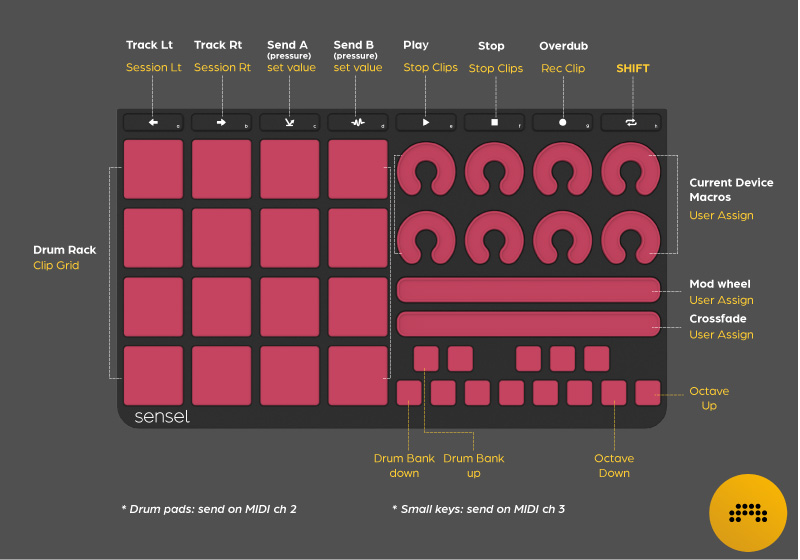
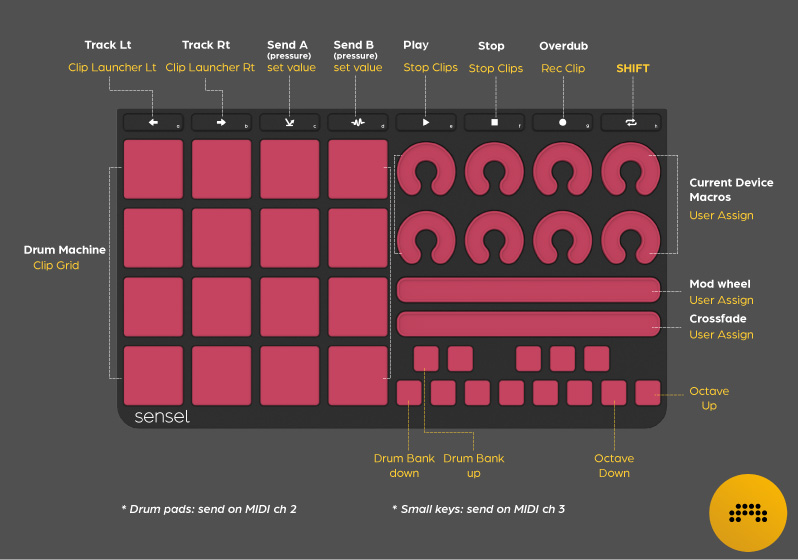
Deployed 4469b6a with MkDocs version: 0.16.1

Changed region(s): [[0.0938, 0.0607, 0.3125, 0.1518], [0.0312, 0.425, 0.125, 0.4554]]

diff --git a/morph_software/index.html b/morph_software/index.html
@@ -852,10 +852,12 @@
 </ul>
 <p><strong>Remote Scripts for Live:</strong></p>
 <ul>
-<li>Windows: C:\Program Files\Ableton\Live 10.x.x\Resources\MIDI Remote Scripts</li>
+<li>Windows: C:\ProgramData\Ableton\Live 10\Resources\MIDI Remote Scripts</li>
 <li>Mac: Applications/Live 10/Contents/App-Resources/MIDI Remote Scripts</li>
 </ul>
-<p>(Note: if you want to verify the install for Mac, you can right click on the Live 10 application icon and "Show Package Contents" and navigate to the "MIDI Remote Scripts" folder.)</p>
+<p>Notes: 
+<em> if you want to verify the install for Mac, you can right click on the Live 10 application icon and "Show Package Contents" and navigate to the "MIDI Remote Scripts" folder.)
+</em> On Windows, make sure Ableton is installed in C:\ProgramData\Ableton. If you have it installed in a non-default location such as C:\Program Files\Ableton, the installer will fail.</p>
 <p>Open the Preferences window in Ableton Live and select the MIDI tab. Select the Sensel Morph as your Control Script. Select the Morph as the input and output device for the Control Surface. You will also want to enable the Morph for Track and Remote input.
 <img alt="Ableton Live preferences for Control Surface Script for Morph" src="../img/ableton_prefs_script.jpg" /></p>
 <!--
@@ -938,8 +940,8 @@
 <p>Run the installer for Mac or Windows. This will install:</p>
 <p><strong>Example Bitwig Studio set with sounds and instruments:</strong></p>
 <ul>
-<li><strong>Mac:</strong> ~/Documents/Sensel Morph/Ableton Live Script Project/Sensel Bitwig Remote Script Demo.bw</li>
-<li><strong>Windows:</strong> {userdocs}\Sensel Morph\Ableton Live Script Project\Project\SSensel Bitwig Remote Script Demo.bw</li>
+<li><strong>Mac:</strong> ~/Documents/Sensel Morph/Bitwig Project/Sensel Bitwig Remote Script Demo.bw</li>
+<li><strong>Windows:</strong> {userdocs}\Sensel Morph\Bitwig Project\Project\SSensel Bitwig Remote Script Demo.bw</li>
 </ul>
 <p><strong>Overlay maps for SenselApp:</strong></p>
 <ul>
@@ -984,7 +986,7 @@
 <p>Additional shift functions</p>
 <ul>
 <li>launch clips</li>
-<li>transpose drum rack</li>
+<li>transpose drum machine</li>
 <li>transpose small keys on music production overlay</li>
 <li>user-assign knobs and sliders on music production overlay</li>
 </ul>
